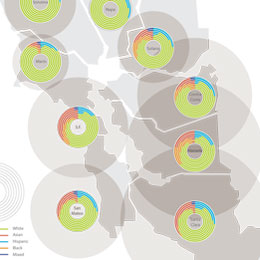
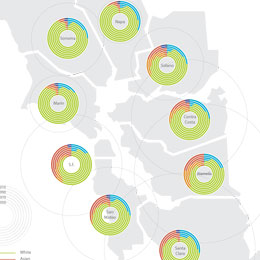
process thinking for housing page

diff --git a/housing.html b/housing.html
@@ -24,6 +24,27 @@
 		<div id="workContainer">
 			<div class="artwork"><img class="lazy" src="" data-original="images/data/housing/housing.png" alt="Comparison of housing prices in the Bay Area counties" width="100%"></div>
 		</div>
+		<div class="text">
+			<div class="paragraph">Originally, when all the counties were colored in black, it was difficult to differentiate which bar was which county. Instead, I chose a monochromatic gradient with each bar having a shade of gray so that there was more differentiation between each of the bars. </div>
+		</div>
+		<div id="workContainer">
+			<div class="artwork"><img class="lazy" src="" data-original="images/data/housing/housing_v1.png" alt="Comparison of housing prices in the Bay Area counties" width="100%"></div>
+		</div>
+		<div id="workContainer">
+			<div class="artwork"><img class="lazy" src="" data-original="images/data/housing/housing_v2.png" alt="Comparison of housing prices in the Bay Area counties" width="100%"></div>
+		</div>
+		<div class="text">
+			<div class="paragraph">When looking at the graph the second time around, I felt that the alphabetized bars did not bring any value to the graph. Instead, if the graph were organized from most to least or least to most expensive, then the graph would be more readable.</div>
+		</div>
+		<div id="workContainer">
+			<div class="artwork"><img class="lazy" src="" data-original="images/data/housing/housing_v3.png" alt="Comparison of housing prices in the Bay Area counties" width="100%"></div>
+		</div>
+		<div class="text">
+			<div class="paragraph">I then revisisted my color theme. Originally, I liked the monochromatic grey gradient with the pop of red. It seemed classy. Elegant. However, readability was still low because it was difficult for the eyes to differentiate the shades of gray. So I departed from the grays, and chose a muted color palette instead. The colors allow the eyes to quickly track which bar is for which county.</div>
+		</div>
+		<div id="workContainer">
+			<div class="artwork"><img class="lazy" src="" data-original="images/data/housing/housing.png" alt="Comparison of housing prices in the Bay Area counties" width="100%"></div>
+		</div>				
 		<div class="footer">
 			<ul class="footer">
 				<li><a href="https://www.linkedin.com/in/taiweivivianzhang/">LinkedIn</a></li>
